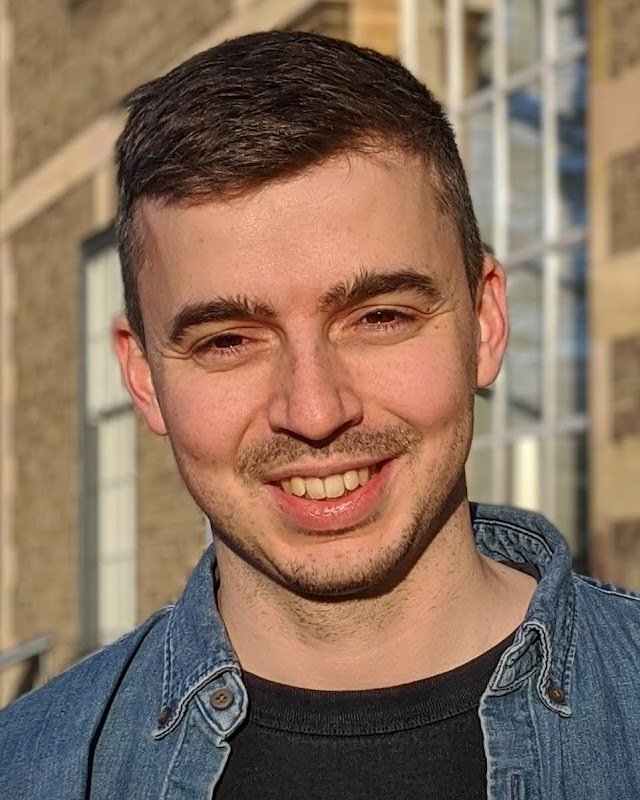
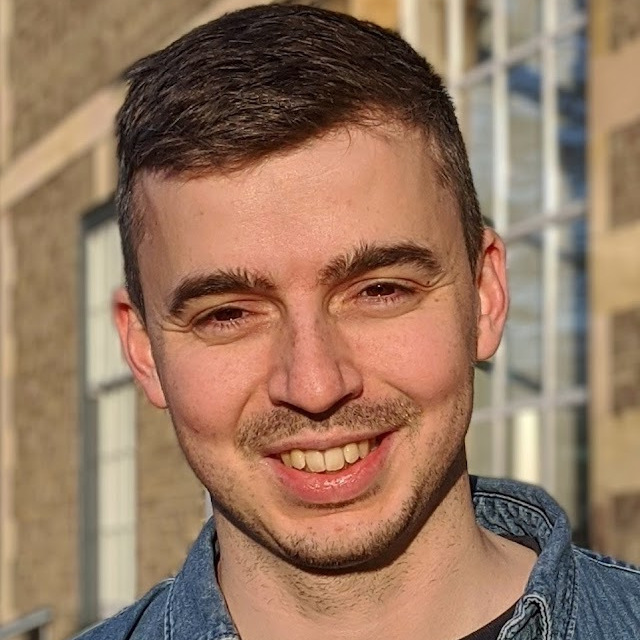
Updated students

diff --git a/assets/students/students.html b/assets/students/students.html
@@ -52,7 +52,7 @@
   <h1>PhD students</h1>
   <div class="grid">
     <div class="grid-item">
-      <img src="/assets/students/images/originals/metha_prathaban.png" />
+      <img src="/assets/students/images/metha_prathaban.jpg" />
     </div>
     <div class="grid-item">
       <p>
@@ -69,7 +69,7 @@
       </p>
     </div>
     <div class="grid-item">
-      <img src="/assets/students/images/originals/adam_ormondroyd.jpg" />
+      <img src="/assets/students/images/adam_ormondroyd.jpg" />
     </div>
     <div class="grid-item">
       <p>
@@ -129,7 +129,7 @@
       </p>
     </div>
     <div class="grid-item">
-      <img src="/assets/students/images/originals/thomas_gessey-jones.jpg" />
+      <img src="/assets/students/images/thomas_gessey-jones.jpg" />
     </div>
     <div class="grid-item">
       <p>
@@ -155,7 +155,7 @@
       </p>
     </div>
     <div class="grid-item">
-      <img src="/assets/students/images/originals/harry_bevins.jpeg" />
+      <img src="/assets/students/images/harry_bevins.jpg" />
     </div>
     <div class="grid-item">
       <p>
@@ -270,7 +270,7 @@
   <h1>Summer students</h1>
   <div class="grid">
     <div class="grid-item">
-      <img src="/assets/students/images/originals/artyom_baryshnikov.png" />
+      <img src="/assets/students/images/artyom_baryshnikov.jpg" />
     </div>
     <div class="grid-item">
       <p>
@@ -359,7 +359,7 @@
   <h1>Past PhD students</h1>
   <div class="grid">
     <div class="grid-item">
-      <img src="/assets/students/images/originals/thomas_mcaloone.jpg" />
+      <img src="/assets/students/images/thomas_mcaloone.jpg" />
     </div>
     <div class="grid-item">
       <p>
@@ -376,7 +376,7 @@
       </p>
     </div>
     <div class="grid-item">
-      <img src="/assets/students/images/originals/isidro_gomez_vargas.jpg" />
+      <img src="/assets/students/images/isidro_gomez_vargas.jpg" />
     </div>
     <div class="grid-item">
       <p>
@@ -458,7 +458,7 @@
       </p>
     </div>
     <div class="grid-item">
-      <img src="/assets/students/images/originals/lukas_hergt.jpg" />
+      <img src="/assets/students/images/lukas_hergt.jpg" />
     </div>
     <div class="grid-item">
       <p>
@@ -604,7 +604,7 @@
       </p>
     </div>
     <div class="grid-item">
-      <img src="/assets/students/images/originals/xy_wang.jpg" />
+      <img src="/assets/students/images/xy_wang.jpg" />
     </div>
     <div class="grid-item">
       <p>
@@ -722,7 +722,7 @@
       </p>
     </div>
     <div class="grid-item">
-      <img src="/assets/students/images/originals/jessica_rigley.jpeg" />
+      <img src="/assets/students/images/jessica_rigley.jpg" />
     </div>
     <div class="grid-item">
       <p>
@@ -830,7 +830,7 @@
   <h1>Past Summer students</h1>
   <div class="grid">
     <div class="grid-item">
-      <img src="/assets/students/images/originals/mattia_varrone.jpg" />
+      <img src="/assets/students/images/mattia_varrone.jpg" />
     </div>
     <div class="grid-item">
       <p>
@@ -843,7 +843,7 @@
       </p>
     </div>
     <div class="grid-item">
-      <img src="/assets/students/images/originals/zak_shumaylov.jpeg" />
+      <img src="/assets/students/images/zak_shumaylov.jpg" />
     </div>
     <div class="grid-item">
       <p>
@@ -863,7 +863,7 @@
       </p>
     </div>
     <div class="grid-item">
-      <img src="/assets/students/images/originals/denis_werth.jpg" />
+      <img src="/assets/students/images/denis_werth.jpg" />
     </div>
     <div class="grid-item">
       <p>
@@ -884,7 +884,7 @@
       </p>
     </div>
     <div class="grid-item">
-      <img src="/assets/students/images/originals/liam_lau.jpg" />
+      <img src="/assets/students/images/liam_lau.jpg" />
     </div>
     <div class="grid-item">
       <p>
@@ -901,7 +901,7 @@
       </p>
     </div>
     <div class="grid-item">
-      <img src="/assets/students/images/originals/maxime_jabarian.jpeg" />
+      <img src="/assets/students/images/maxime_jabarian.jpg" />
     </div>
     <div class="grid-item">
       <p>
@@ -927,7 +927,7 @@
       </p>
     </div>
     <div class="grid-item">
-      <img src="/assets/students/images/originals/elizabeth_guest.jpg" />
+      <img src="/assets/students/images/elizabeth_guest.jpg" />
     </div>
     <div class="grid-item">
       <p>
@@ -945,7 +945,7 @@
       </p>
     </div>
     <div class="grid-item">
-      <img src="/assets/students/images/originals/shu-fan_chen.jpeg" />
+      <img src="/assets/students/images/shu-fan_chen.jpg" />
     </div>
     <div class="grid-item">
       <p>
